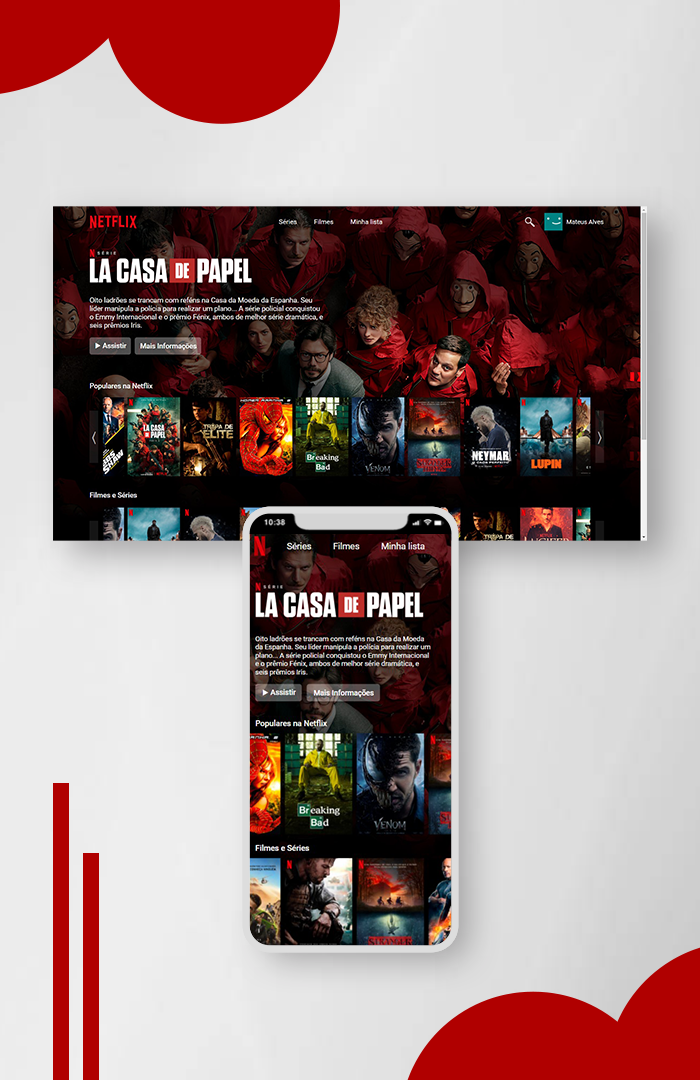
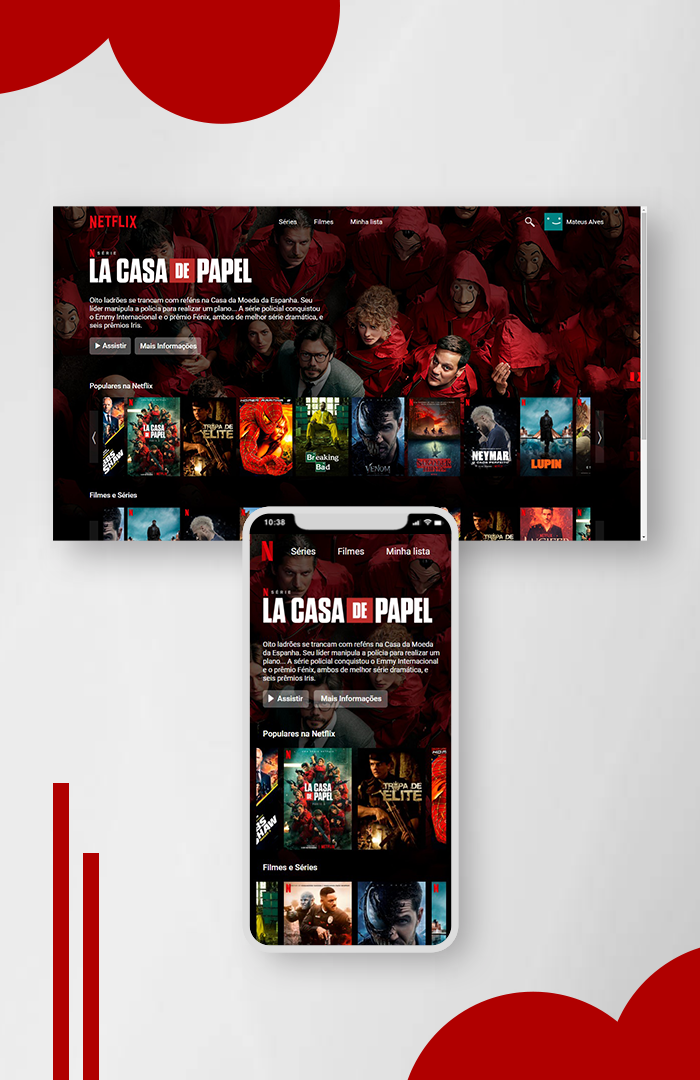
Update 2.1

Changed region(s): [[0.33, 0.4889, 0.66, 0.8861]]

diff --git a/style.css b/style.css
@@ -147,7 +147,6 @@ nav ul li:hover, #user:hover{
     display: flex;
     padding-top: 20px;
     text-align: left;
-    width: 60vh;
 }
 
 .botao button {
@@ -425,6 +424,10 @@ footer {
         padding-top: 15px;
     }
 
+    .topoEsquerda2 {
+        margin-left: 15px;
+    }
+
     .botao button {
         font-weight: 500;
         font-size: 15px;
@@ -473,7 +476,7 @@ footer {
 
     footer {
         width: 100%;
-        bottom: -160px;
+        bottom: -220px;
         position: absolute;
     }
 

diff --git a/script.js b/script.js
@@ -30,7 +30,7 @@ $('.cartaz').slick({
       settings: {
         arrows: false,
         centerMode: true,
-        centerPadding: '10px',
+        centerPadding: '42px',
         slidesToShow: 3,
         slidesToShow: 2
       }
@@ -70,7 +70,7 @@ $('.cartaz2').slick({
       settings: {
         arrows: false,
         centerMode: true,
-        centerPadding: '10px',
+        centerPadding: '42px',
         slidesToShow: 3,
         slidesToShow: 2
       }

diff --git a/README.md b/README.md
@@ -14,7 +14,7 @@
 </h3>
 
 <h4 align = "center">
-	versão 2.0 ✅
+	versão 2.1 ✅
 </h4>
 <br>
 <h3 align = "center">
